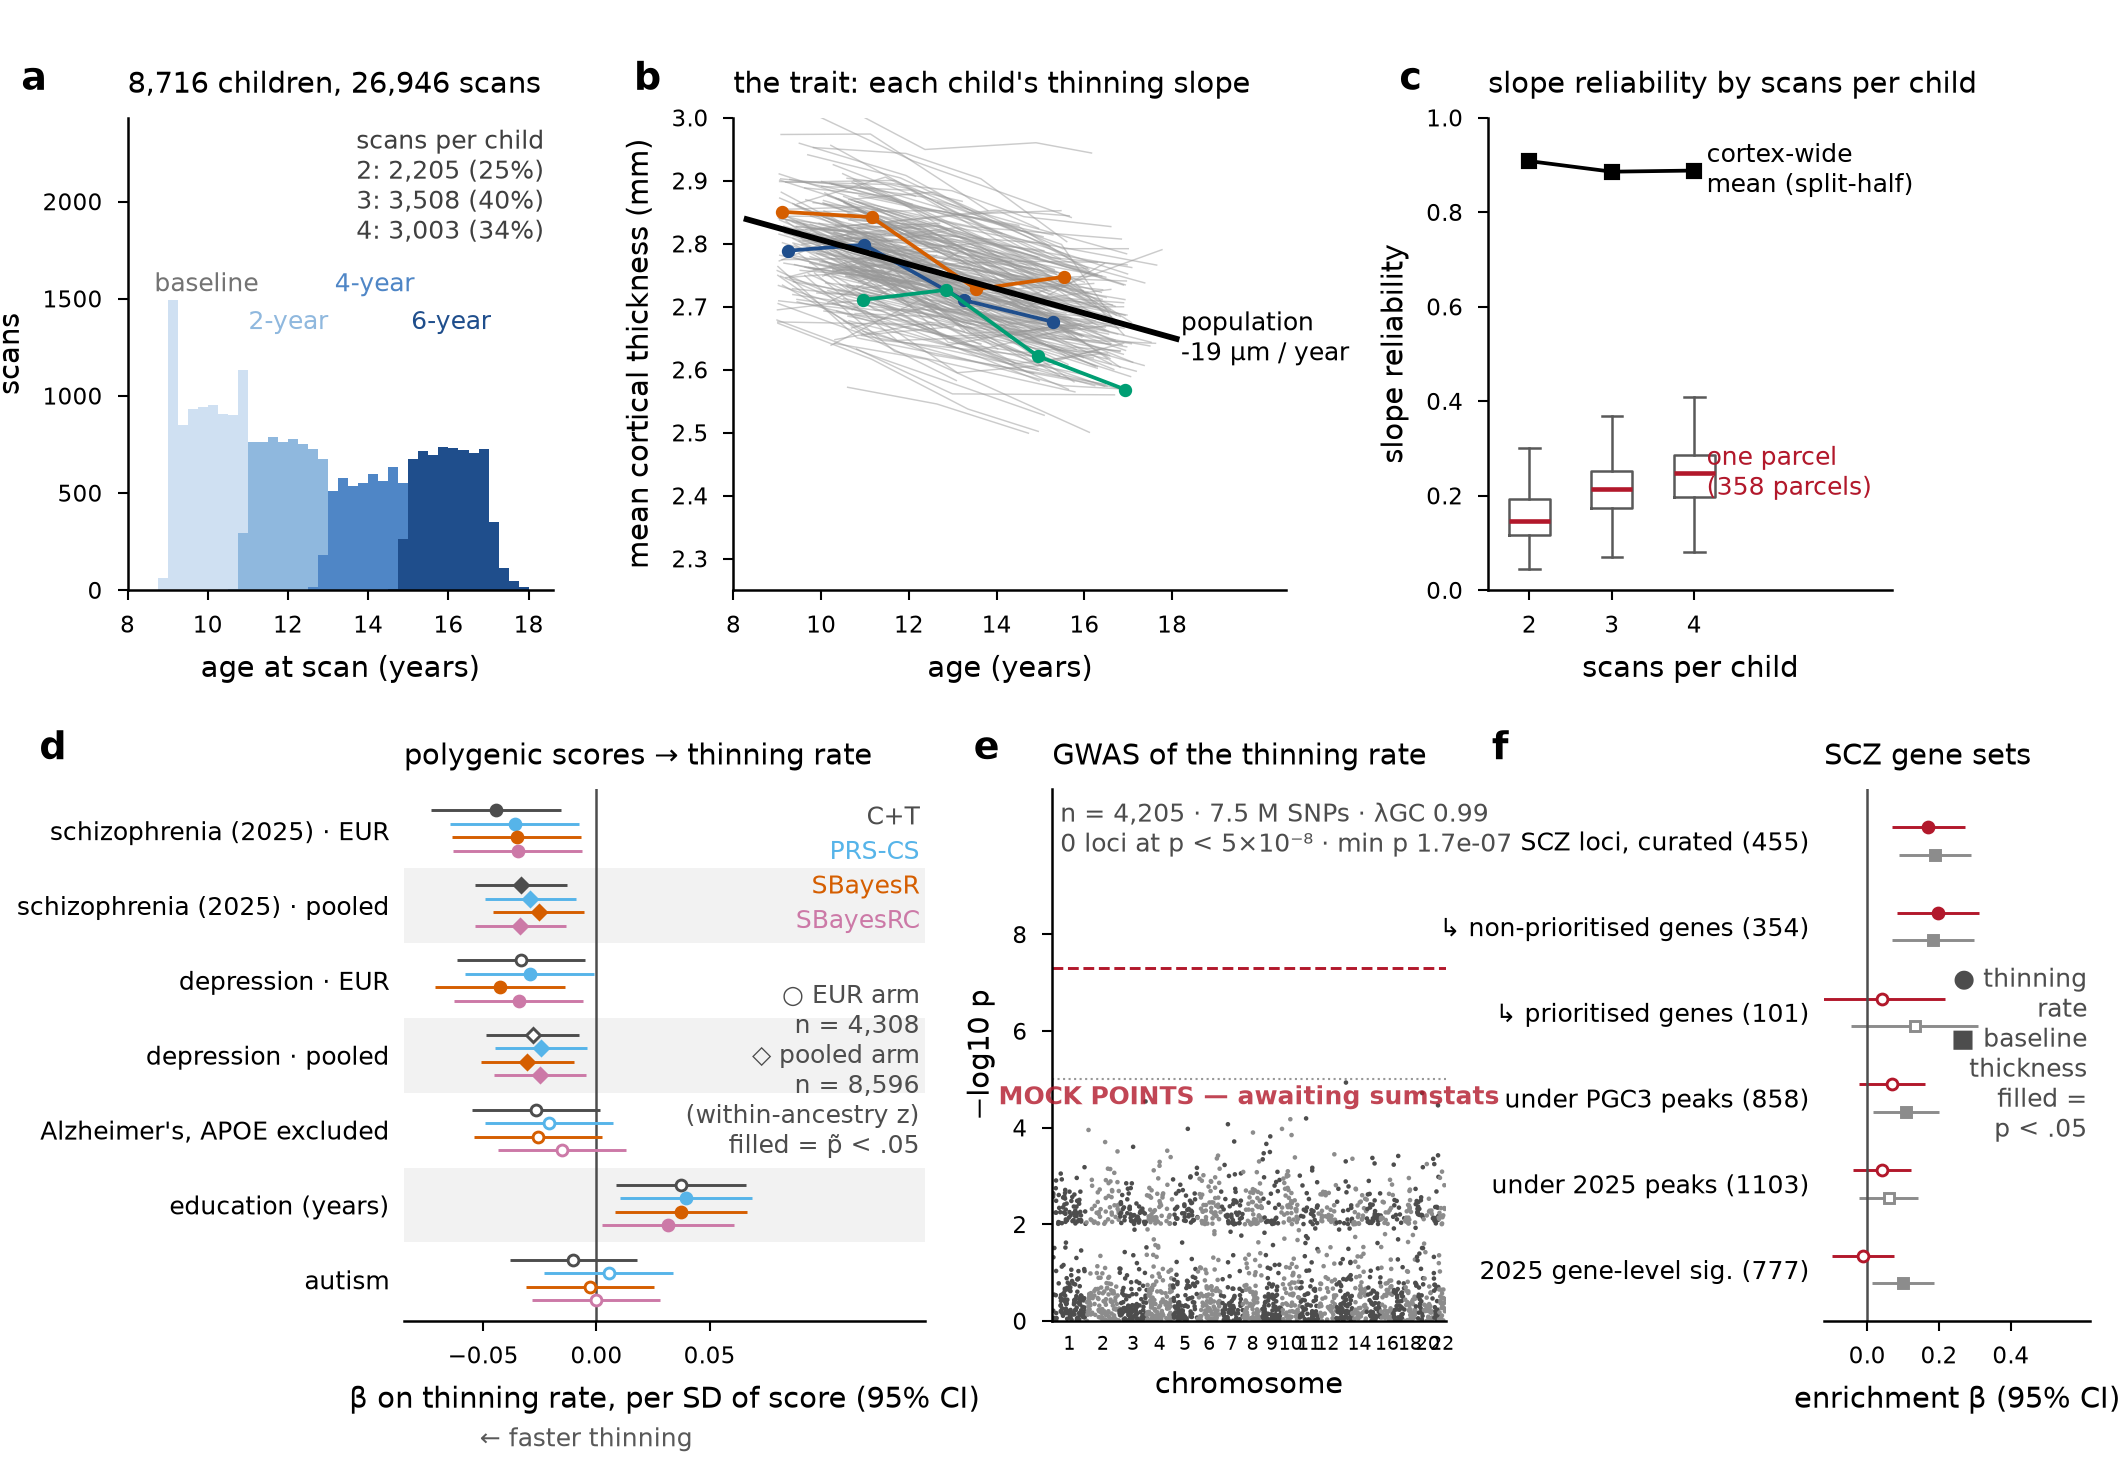
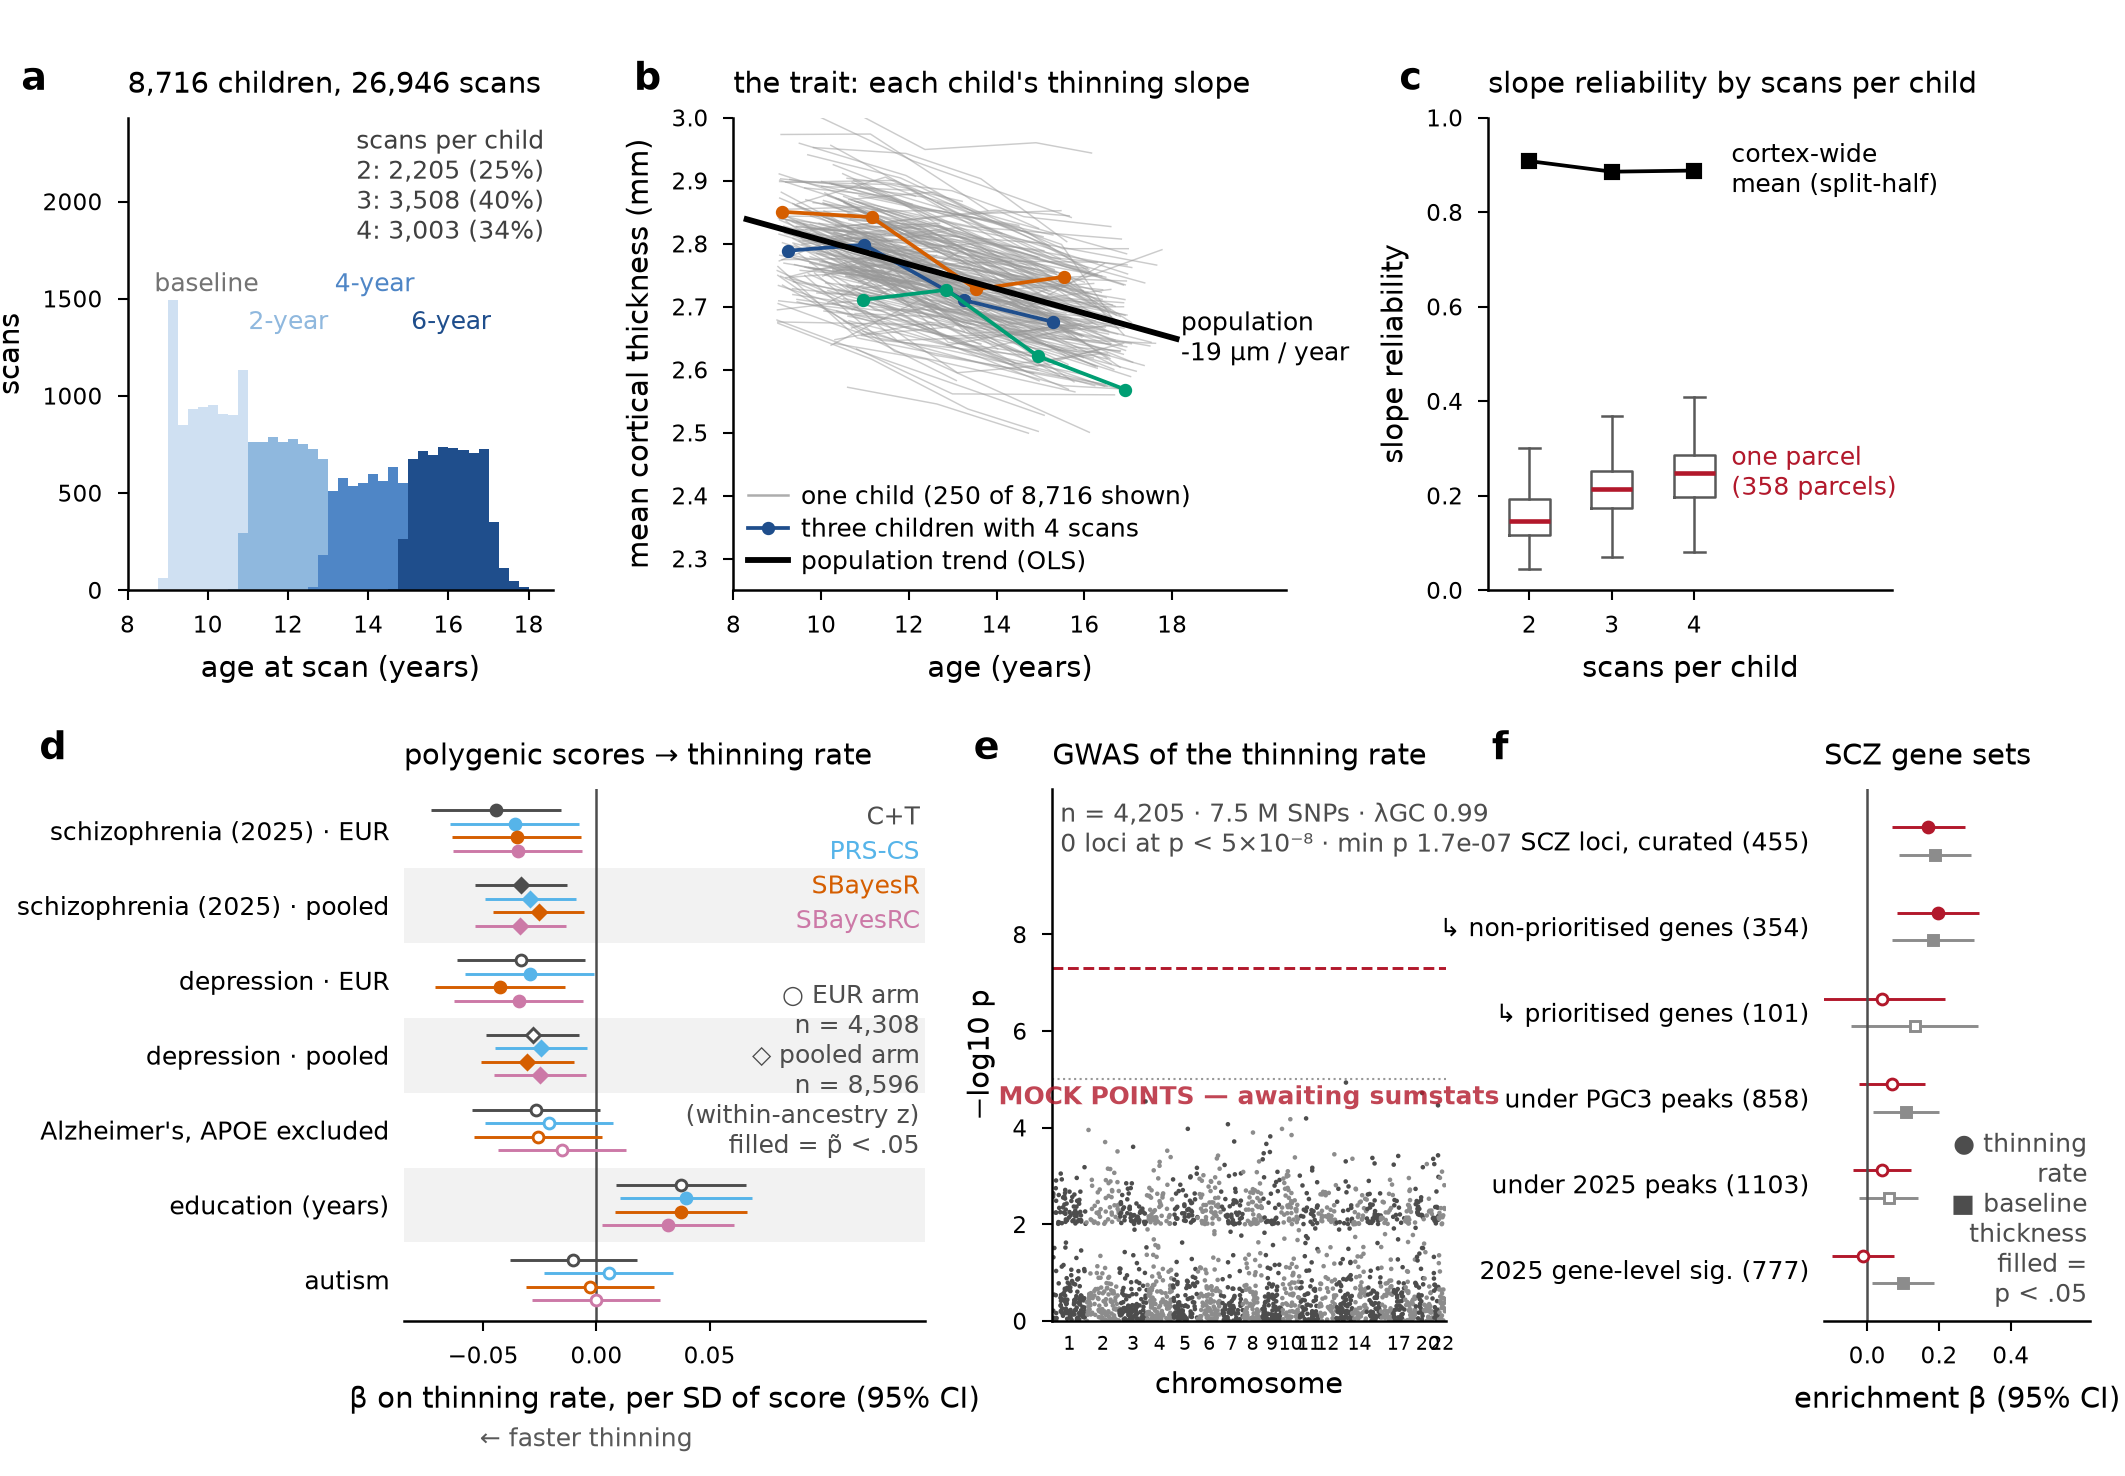
fig1_draft: legend on panel b, collisions cleared, caption generated from the input tables
- panel b: frameless legend (one child / three highlighted children /
  population OLS) in the empty lower-left.
- panel c: the 'one parcel' and 'cortex-wide mean' labels moved off the
  n=4 box (the one true text-on-data collision the bbox scan found; the
  'outside' flags on axis labels are the known dpi-scale false positives).
- panel e: chromosome ticks thinned to 1-12, 14, 17, 20, 22.
- panel f: key moved to the lower right, clear of the ST12 / prioritised CIs.
- write_caption() -> docs/figures/fig1_draft_caption.md.  Every number in
  the caption (n children/scans, scans-per-child split, OLS slope, reliability
  medians, split-half values, per-arm significant-method counts and beta
  range, GWAS summary, GREML h2, gene-set sizes and p) is read from
  fig1_inputs/ at write time, so the caption cannot go stale against the
  figure.  Layout per the project convention: bold one-sentence title,
  per-panel description, methods as short bullets.

diff --git a/genetic_analysis/fig1_draft.py b/genetic_analysis/fig1_draft.py
@@ -136,6 +136,17 @@ def panel_b(ax, rng):
     ax.text(18.2, summ.ols_intercept_mm + summ.ols_slope_mm_per_yr * 18.1,
             f"population\n{summ.ols_slope_mm_per_yr * 1000:.0f} µm / year",
             fontsize=ANN, va="center", ha="left")
+    handles = [
+        mpl.lines.Line2D([], [], color="0.6", lw=0.6, alpha=0.8,
+                         label="one child (250 of 8,716 shown)"),
+        mpl.lines.Line2D([], [], color="#1f4e8c", lw=0.9, marker="o", ms=2.2,
+                         label="three children with 4 scans"),
+        mpl.lines.Line2D([], [], color="black", lw=1.4,
+                         label="population trend (OLS)"),
+    ]
+    ax.legend(handles=handles, loc="lower left", frameon=False,
+              fontsize=ANN, handlelength=1.6, handletextpad=0.5,
+              borderaxespad=0.2, labelspacing=0.3)
     ax.set_xlim(8, 20.6)
     ax.set_ylim(2.25, 3.0)
     ax.set_xticks([8, 10, 12, 14, 16, 18])
@@ -158,9 +169,9 @@ def panel_c(ax):
     ax.plot([2, 3, 4], [sh.spearman_brown[sh.n_visits == k].iloc[0]
                         for k in (2, 3, 4)], "s-", color="black", ms=3,
             lw=0.9)
-    ax.text(4.15, sh.spearman_brown[sh.n_visits == 4].iloc[0],
+    ax.text(4.45, sh.spearman_brown[sh.n_visits == 4].iloc[0],
             "cortex-wide\nmean (split-half)", fontsize=ANN, va="center")
-    ax.text(4.15, rel.reliability[rel.n_visits == 4].median(),
+    ax.text(4.45, rel.reliability[rel.n_visits == 4].median(),
             "one parcel\n(358 parcels)", fontsize=ANN, va="center",
             color=SLOPE_C)
     ax.set_xticks([2, 3, 4])
@@ -249,8 +260,8 @@ def panel_e(ax, rng):
     ax.axhline(5, color="0.6", lw=0.5, ls=":")
     ax.set_xlim(0, offs[-1] + chr_len[-1])
     ax.set_xticks(offs + chr_len / 2)
-    ax.set_xticklabels([str(c + 1) if (c < 12 or c % 2) else ""
-                        for c in range(22)], fontsize=TICK - 1)
+    ax.set_xticklabels([str(c + 1) if (c < 12 or c in (13, 16, 19, 21))
+                        else "" for c in range(22)], fontsize=TICK - 1)
     ax.tick_params(axis="x", length=0)
     ax.set_xlabel("chromosome")
     ax.set_ylabel("−log10 p")
@@ -301,9 +312,93 @@ def panel_f(ax):
     ax.set_ylim(-0.6, n - 0.4)
     ax.set_xlabel("enrichment β (95% CI)")
     ax.set_title("SCZ gene sets", loc="left")
-    ax.text(0.99, 0.5, "● thinning\n   rate\n■ baseline\n   thickness\n"
+    ax.text(0.99, 0.02, "● thinning\n   rate\n■ baseline\n   thickness\n"
             "filled =\np < .05", transform=ax.transAxes, ha="right",
-            va="center", fontsize=ANN, color="0.3")
+            va="bottom", fontsize=ANN, color="0.3")
+
+
+CAPTION = REPO / "docs/figures/fig1_draft_caption.md"
+
+
+def write_caption() -> Path:
+    """Caption with every number read from fig1_inputs/ at write time."""
+    per = pd.read_csv(IN / "hcp70_scans_per_child.csv", index_col=0)
+    age = pd.read_csv(IN / "hcp70_age_by_visit.csv", index_col=0)
+    summ = pd.read_csv(IN / "hcp70_scan_summary.csv", index_col=0).value
+    rel = pd.read_csv(IN / "hcp70_regional_slope_reliability.csv")
+    sh = pd.read_csv(IN / "hcp70_global_slope_splithalf.csv")
+    h2 = pd.read_csv(IN / "hcp70_greml_h2.tsv", sep="\t").set_index("phenotype")
+    gw = pd.read_csv(IN / "hcp70_gwas_summary_eur.tsv", sep="\t").set_index("phenotype")
+    prs = pd.read_csv(IN / "hcp70_prs_key_arms.tsv", sep="\t")
+    prs = prs[prs.phenotype == "global_slope"]
+    mg = pd.read_csv(IN / "hcp70_magma_genesets.tsv", sep="\t")
+
+    n_kids, n_scans = int(per.n_children.sum()), int(age["count"].sum())
+    med = {k: rel.reliability[rel.n_visits == k].median() for k in (2, 3, 4)}
+    sb = {int(r.n_visits): r.spearman_brown for _, r in sh.iterrows()}
+    g = gw.loc["global_slope"]
+    hs = h2.loc["global_slope"]
+
+    def sig(arm):
+        d = prs[prs.trait_arm == arm]
+        return int((d.p_adj_1lmm < 0.05).sum()), len(d), d.beta_1lmm.min(), d.beta_1lmm.max()
+
+    scz_e, scz_p = sig("SCZ25_EUR"), sig("SCZ25_META")
+    mdd_e, mdd_p = sig("MDD_eur"), sig("MDD_pooled")
+    alz, ea, asd = sig("ALZ_noAPOE"), sig("EA"), sig("ASD")
+    st12 = mg[mg.variable == "SCZ_locus_pool"].set_index("phenotype")
+    npr = mg[mg.variable == "SCZ_pool_not_prio"].set_index("phenotype")
+    pri = mg[mg.variable == "SCZ_prioritised"].set_index("phenotype")
+
+    txt = f"""**Figure 1 | Polygenic risk for schizophrenia predicts the rate of adolescent
+cortical thinning.** All panels use the HCP-MMP1.0 parcellation (358 parcels)
+and ABCD release 7.0.
+
+**a**, Age at scan by study visit for the {n_kids:,} children with at least two
+usable scans ({n_scans:,} scans; {int(per.n_children[2]):,} / {int(per.n_children[3]):,} / {int(per.n_children[4]):,}
+children with 2 / 3 / 4 scans). **b**, Mean cortical thickness across parcels
+per scan against age. Thin lines join the scans of 250 randomly drawn children;
+three children with four scans are highlighted; the black line is the ordinary
+least-squares population trend ({summ.ols_slope_mm_per_yr * 1000:.0f} µm per year). Each child's
+age slope from a linear mixed model is the trait analysed below. **c**,
+Reliability of the slope estimate by scans per child. Boxes: model-based
+reliability (variance of the true slope over variance of the estimate) of a
+single parcel's slope across the 358 parcels (median {med[2]:.2f} / {med[3]:.2f} / {med[4]:.2f}
+for 2 / 3 / 4 scans). Squares: split-half consistency of the cortex-wide mean
+slope (left- vs right-hemisphere means, Spearman–Brown corrected; {sb[2]:.2f} / {sb[3]:.2f} / {sb[4]:.2f}).
+**d**, Association of polygenic scores with the thinning rate (single linear
+mixed model on the per-scan cortical mean; β per SD of score, 95 % CI). Four
+scoring methods per trait (C+T, PRS-CS, SBayesR, SBayesRC); circles, European
+ancestry arm scored with a European discovery GWAS (n = 4,308); diamonds, all
+ancestries scored with a multi-ancestry discovery GWAS and standardised within
+ancestry cluster (n = 8,596); filled, p < 0.05 after correction across C+T
+thresholds. Schizophrenia (2025 multi-ancestry GWAS): {scz_e[0]}/{scz_e[1]} methods
+significant in the European arm (β {scz_e[2]:.3f} to {scz_e[3]:.3f}) and {scz_p[0]}/{scz_p[1]} in the pooled
+arm; depression {mdd_e[0]}/{mdd_e[1]} and {mdd_p[0]}/{mdd_p[1]}; Alzheimer's disease with the APOE region
+excluded {alz[0]}/{alz[1]}; educational attainment {ea[0]}/{ea[1]} (opposite sign); autism {asd[0]}/{asd[1]}.
+**e**, Genome-wide association of the thinning rate, European arm (n = {int(g.n_mean):,};
+{g.n_snps / 1e6:.1f} M imputed variants; λGC {g.lambda_gc:.2f}; {int(g.n_p5e8)} loci at p < 5 × 10⁻⁸;
+SNP heritability from GREML {hs.h2:.2f} ± {hs.se:.2f}). *Points are placeholders until
+the summary statistics are exported.* **f**, MAGMA competitive gene-set
+enrichment of the thinning-rate GWAS (red) and of baseline thickness (grey)
+in schizophrenia gene sets: the curated locus pool of the 2022 PGC GWAS
+(Trubetskoy et al. Supplementary Table 12; {int(st12.n_genes.iloc[0])} genes) and its
+non-prioritised ({int(npr.n_genes.iloc[0])}) and prioritised ({int(pri.n_genes.iloc[0])}) subsets, genes
+under genome-wide-significant peaks of the 2022 and 2025 GWAS, and genes
+significant in the 2025 gene-level analysis. The curated pool is enriched for
+the thinning rate (p = {st12.loc['global_slope', 'p']:.1g}) and for baseline thickness
+(p = {st12.loc['baseline_thickness', 'p']:.1g}) alike, carried by its non-prioritised genes
+(p = {npr.loc['global_slope', 'p']:.1g}) rather than the prioritised ones (p = {pri.loc['global_slope', 'p']:.2f}).
+
+Methods notes
+- Thickness parsed from release FreeSurfer surfaces into HCP-MMP parcels; scans passing the release QC code; children with ≥ 2 scans.
+- Mixed model per parcel and for the cortex-wide mean: thickness ~ age + sex + (1 + age | child) + (1 | site); the trait is the child's age slope.
+- Polygenic scores from four methods; discovery GWAS matched to the target arm; pooled-arm scores z-scored within genetic-ancestry cluster; association model score + age + sex + 10 PCs + (1 | family).
+- Sensitivity analyses (DK parcellation, mean of per-parcel slopes as the trait, PGC3 2022 discovery GWAS, per-ancestry strata) in Supplementary Figures.
+"""
+    CAPTION.write_text(txt)
+    print(CAPTION)
+    return CAPTION
 
 
 def draw() -> Path:
@@ -331,4 +426,5 @@ def draw() -> Path:
 
 if __name__ == "__main__":
     draw()
+    write_caption()
     sys.exit(0)

diff --git a/docs/figures/fig1_draft_caption.md b/docs/figures/fig1_draft_caption.md
@@ -1,0 +1,45 @@
+**Figure 1 | Polygenic risk for schizophrenia predicts the rate of adolescent
+cortical thinning.** All panels use the HCP-MMP1.0 parcellation (358 parcels)
+and ABCD release 7.0.
+
+**a**, Age at scan by study visit for the 8,716 children with at least two
+usable scans (26,946 scans; 2,205 / 3,508 / 3,003
+children with 2 / 3 / 4 scans). **b**, Mean cortical thickness across parcels
+per scan against age. Thin lines join the scans of 250 randomly drawn children;
+three children with four scans are highlighted; the black line is the ordinary
+least-squares population trend (-19 µm per year). Each child's
+age slope from a linear mixed model is the trait analysed below. **c**,
+Reliability of the slope estimate by scans per child. Boxes: model-based
+reliability (variance of the true slope over variance of the estimate) of a
+single parcel's slope across the 358 parcels (median 0.15 / 0.21 / 0.25
+for 2 / 3 / 4 scans). Squares: split-half consistency of the cortex-wide mean
+slope (left- vs right-hemisphere means, Spearman–Brown corrected; 0.91 / 0.89 / 0.89).
+**d**, Association of polygenic scores with the thinning rate (single linear
+mixed model on the per-scan cortical mean; β per SD of score, 95 % CI). Four
+scoring methods per trait (C+T, PRS-CS, SBayesR, SBayesRC); circles, European
+ancestry arm scored with a European discovery GWAS (n = 4,308); diamonds, all
+ancestries scored with a multi-ancestry discovery GWAS and standardised within
+ancestry cluster (n = 8,596); filled, p < 0.05 after correction across C+T
+thresholds. Schizophrenia (2025 multi-ancestry GWAS): 4/4 methods
+significant in the European arm (β -0.044 to -0.035) and 4/4 in the pooled
+arm; depression 3/4 and 3/4; Alzheimer's disease with the APOE region
+excluded 0/4; educational attainment 3/4 (opposite sign); autism 0/4.
+**e**, Genome-wide association of the thinning rate, European arm (n = 4,205;
+7.5 M imputed variants; λGC 0.99; 0 loci at p < 5 × 10⁻⁸;
+SNP heritability from GREML 0.16 ± 0.04). *Points are placeholders until
+the summary statistics are exported.* **f**, MAGMA competitive gene-set
+enrichment of the thinning-rate GWAS (red) and of baseline thickness (grey)
+in schizophrenia gene sets: the curated locus pool of the 2022 PGC GWAS
+(Trubetskoy et al. Supplementary Table 12; 455 genes) and its
+non-prioritised (354) and prioritised (101) subsets, genes
+under genome-wide-significant peaks of the 2022 and 2025 GWAS, and genes
+significant in the 2025 gene-level analysis. The curated pool is enriched for
+the thinning rate (p = 0.0005) and for baseline thickness
+(p = 0.0001) alike, carried by its non-prioritised genes
+(p = 0.0003) rather than the prioritised ones (p = 0.33).
+
+Methods notes
+- Thickness parsed from release FreeSurfer surfaces into HCP-MMP parcels; scans passing the release QC code; children with ≥ 2 scans.
+- Mixed model per parcel and for the cortex-wide mean: thickness ~ age + sex + (1 + age | child) + (1 | site); the trait is the child's age slope.
+- Polygenic scores from four methods; discovery GWAS matched to the target arm; pooled-arm scores z-scored within genetic-ancestry cluster; association model score + age + sex + 10 PCs + (1 | family).
+- Sensitivity analyses (DK parcellation, mean of per-parcel slopes as the trait, PGC3 2022 discovery GWAS, per-ancestry strata) in Supplementary Figures.
